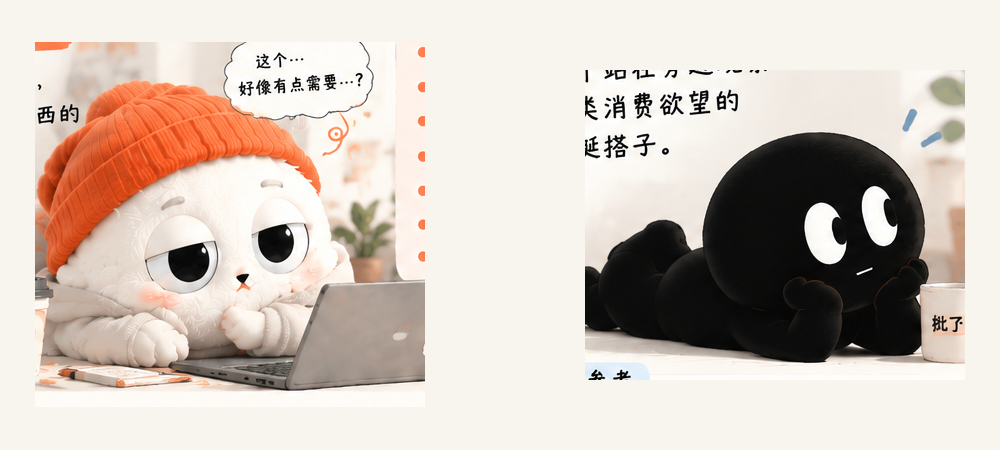
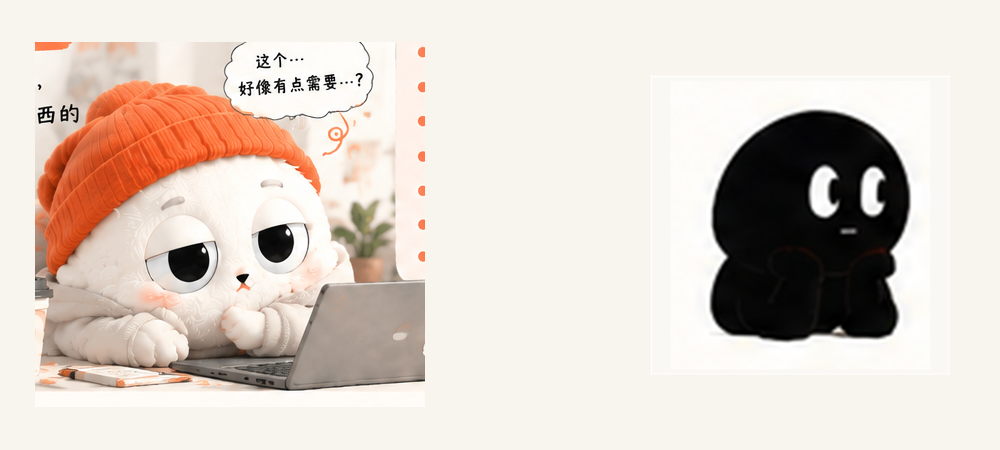
Refine mixed-media character guidelines

Changed region(s): [[0.558, 0.1556, 0.992, 0.8711], [0.558, 0.1556, 0.744, 0.3733], [0.806, 0.6222, 0.837, 0.6533]]

diff --git a/README.md b/README.md
@@ -1,6 +1,6 @@
 # heibaipei
 
-用于精准复刻「余小白 & 梁小黑」定稿形象的 Codex Skill。
+用于精准复刻「余小白 & 梁小黑」定稿形象的 Codex Skill：余小白为 3D 毛绒 CGI，梁小黑为可变形的二维纯黑手绘小人。
 
 ## 安装
 
@@ -18,4 +18,4 @@
 使用 $heibaipei 生成一张 3:4 小红书竖图：余小白看到空气炸锅后眼睛亮起来，梁小黑在旁边沉默记笔记。暖白背景，大量留白，不生成文字。
 ```
 
-技能内含余小白、梁小黑和双角色紧裁身份锚点。生成时必须按出场角色加载对应锚点；完整角色表只用于动作和表情参考。
+技能内含余小白 3D 身份锚点、梁小黑手绘身份与变形参考，以及双角色混合媒介锚点。生成时必须按出场角色加载对应资产；完整角色表只用于动作和表情参考。
